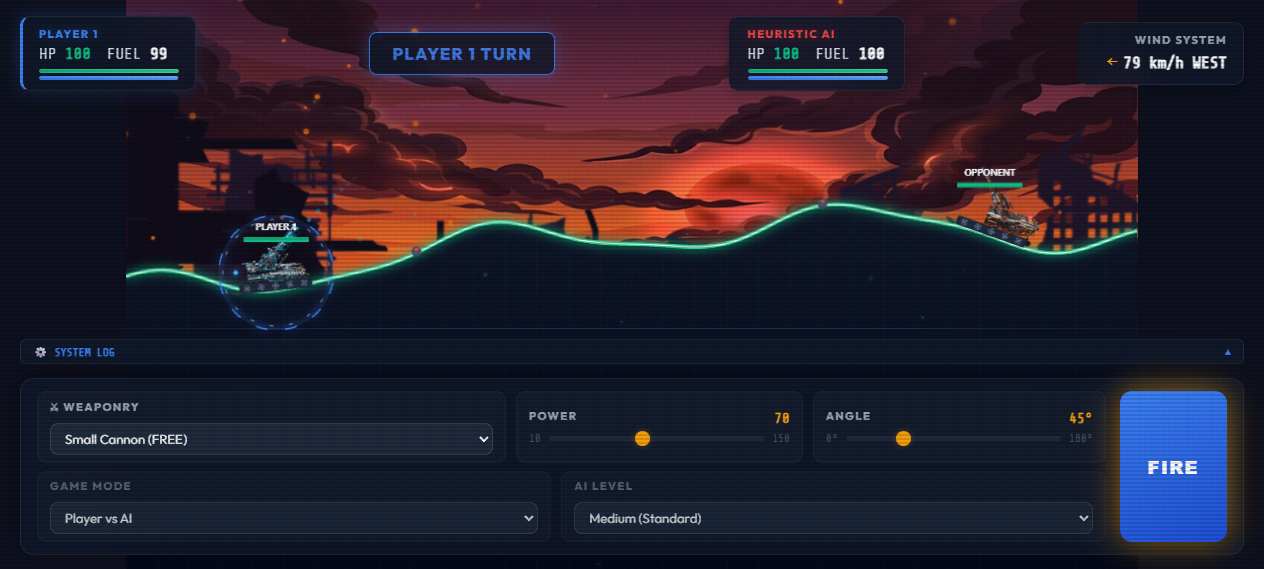
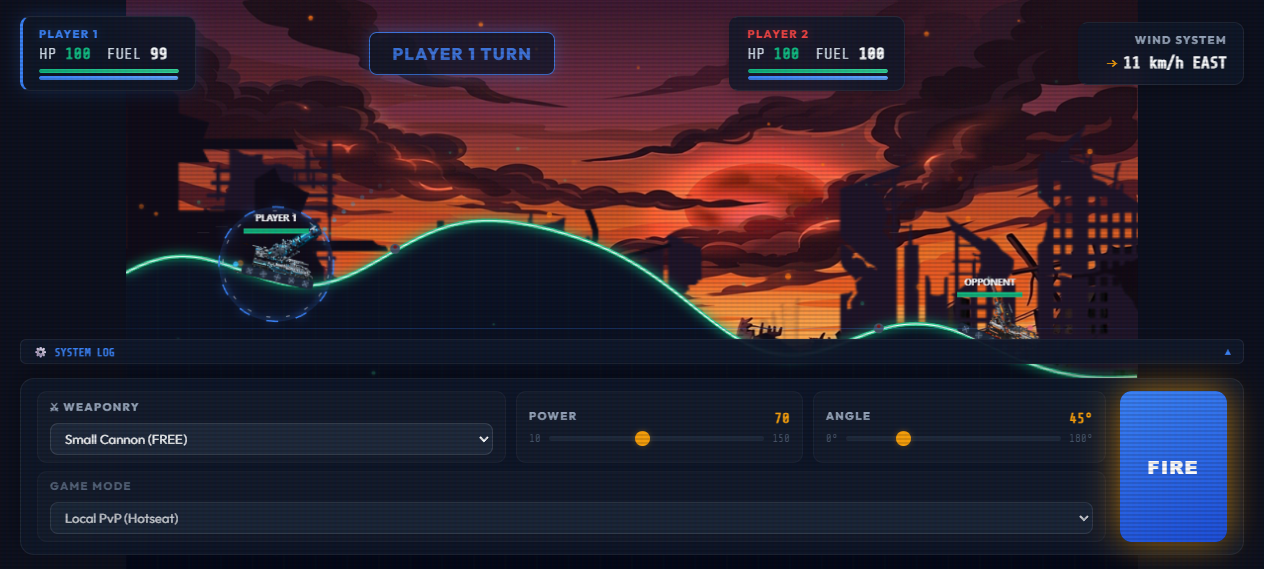
Expose game engine window reference and capture action-packed screenshots for README

diff --git a/src/engine.ts b/src/engine.ts
@@ -216,6 +216,9 @@ export class GameEngine {
     this.setupTouchControls();
     this.setupFullscreenButton();
     
+    // Expose game instance globally for automation scripts
+    (window as any).game = this;
+    
     // Start main game loop
     requestAnimationFrame((t) => this.gameLoop(t));
   }

diff --git a/README.md b/README.md
@@ -11,8 +11,10 @@ A high-juice, responsive HTML5 artillery game featuring destructible vector terr
 | Lobby Menu | Tank Movement |
 | :---: | :---: |
 | ![Lobby Menu](assets/screenshots/lobby.png) | ![Tank Movement](assets/screenshots/movement.png) |
-| **Projectile Flight** | **Explosion & Destructible Terrain** |
-| ![Projectile Flight](assets/screenshots/projectile.png) | ![Explosion](assets/screenshots/explosion.png) |
+| **Tank Firing (Recoil & Flash)** | **Heavy Mortar Blast (Chain Detonation)** |
+| ![Tank Firing](assets/screenshots/firing.png) | ![Heavy Mortar Blast](assets/screenshots/mortar_explosion.png) |
+| **Dirt Spreader (Terraforming)** | **Bouncing Grenade (Purple Detonation)** |
+| ![Dirt Spreader](assets/screenshots/dirt_spreader_explosion.png) | ![Bouncing Grenade](assets/screenshots/bouncing_grenade_explosion.png) |
 
 ---
 